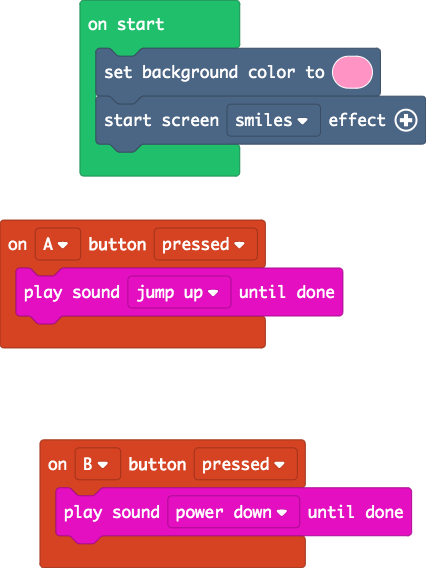
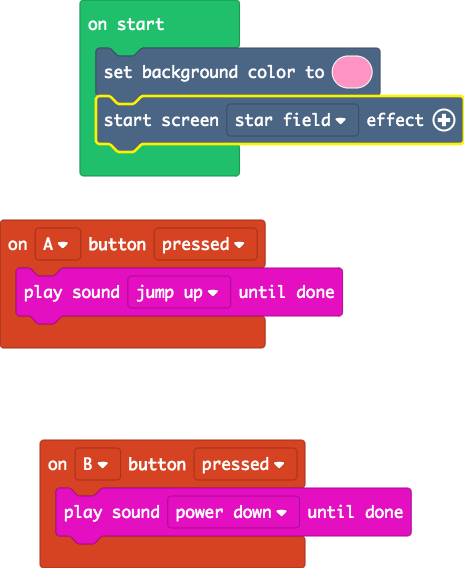
stars

diff --git a/main.ts b/main.ts
@@ -5,4 +5,4 @@ controller.A.onEvent(ControllerButtonEvent.Pressed, function () {
     music.jumpUp.playUntilDone()
 })
 scene.setBackgroundColor(3)
-effects.smiles.startScreenEffect()
+effects.starField.startScreenEffect()
